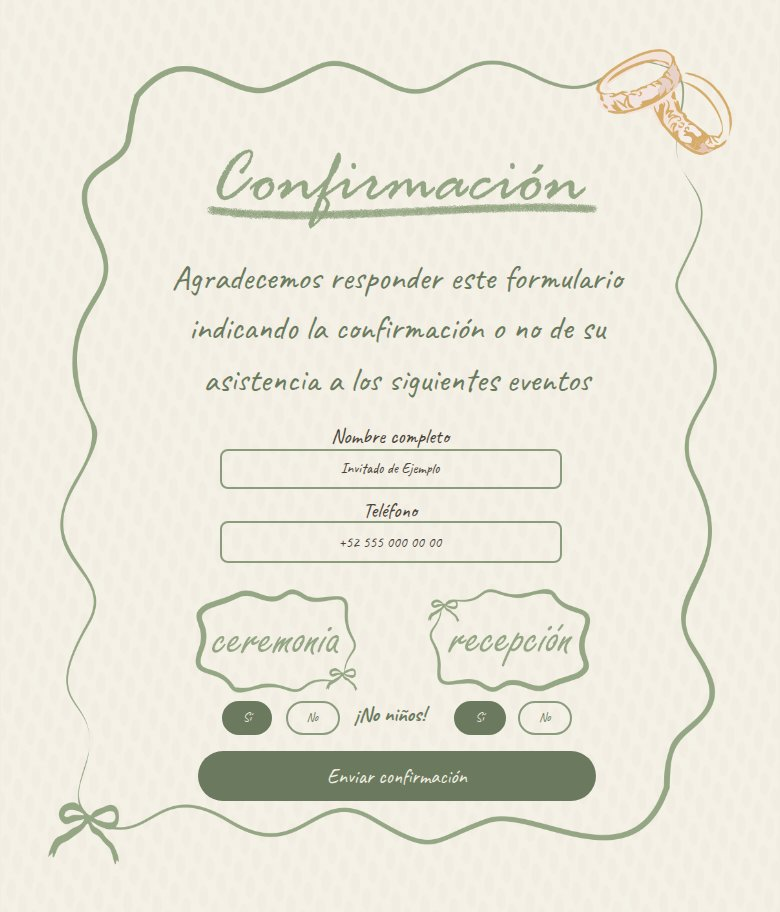
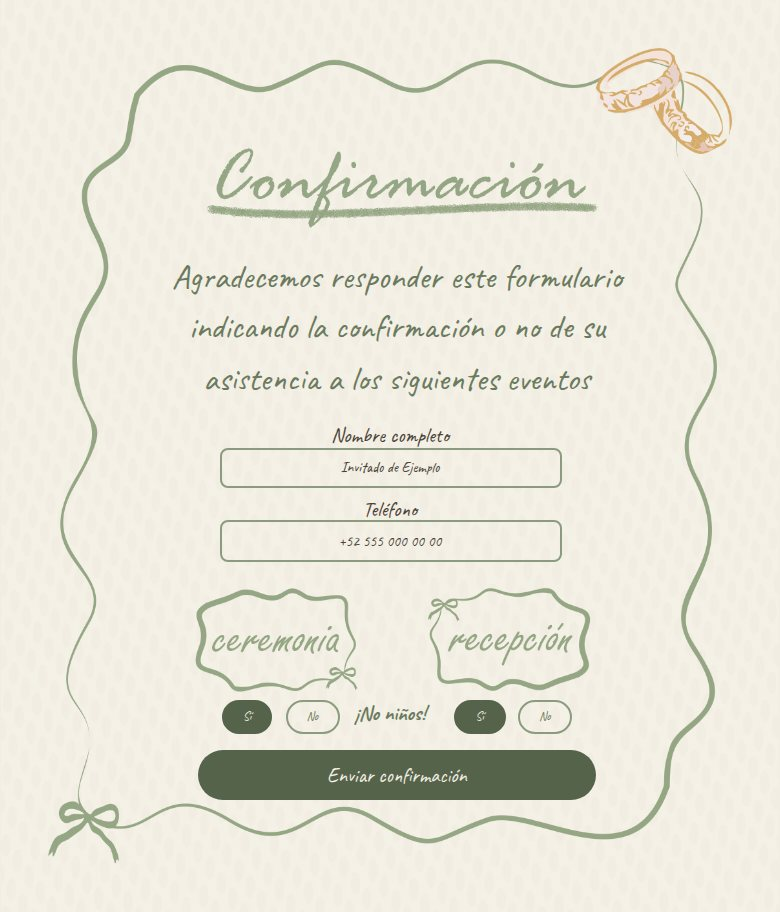
[IMP] Document the envelope, music and personalized links
- README: features, the music settings, Envelope and Music sections
  (restyling, ?para= links, going without either), npm test, project
  structure, and credits for the demo song, which is MIT like the code
- Music: what iPhones allow (the volume is ignored, and the song plays
  in silent mode, like a video) and how to loop a song without a click
- docs/screenshots: the envelope closed and opening; the RSVP capture
  retaken with the new button color

diff --git a/README.md b/README.md
@@ -2,7 +2,7 @@
 
 [![CI](https://github.com/lfrocharod/wedding-invitation-template/actions/workflows/ci.yml/badge.svg)](https://github.com/lfrocharod/wedding-invitation-template/actions/workflows/ci.yml)
 
-A mobile-first wedding invitation website with scroll animations, a live countdown, an RSVP form and link-preview metadata. All of the content (names, date, venues, dress code, gifts, RSVP texts) lives in one config file and is baked into static HTML at build time.
+A mobile-first wedding invitation website that opens from an envelope, with background music, scroll animations, a live countdown, an RSVP form and link-preview metadata. All of the content (names, date, venues, dress code, gifts, RSVP texts, the song) lives in one config file and is baked into static HTML at build time.
 
 The site copy is in Spanish; the code and documentation are in English.
 
@@ -12,21 +12,28 @@ The site copy is in Spanish; the code and documentation are in English.
 
 Phone viewport (390px wide) with the placeholder content.
 
+|                                                                            The envelope, with the guest's name from the link                                                                             |                                                                          Opening it                                                                           |
+| :------------------------------------------------------------------------------------------------------------------------------------------------------------------------------------------------------: | :-----------------------------------------------------------------------------------------------------------------------------------------------------------: |
+| <img src="docs/screenshots/envelope.jpg" width="260" alt="Envelope sealed with a sage wax seal showing the initials V and D, addressed to Familia Pérez, under the names Valeria & Daniel and the date"> | <img src="docs/screenshots/envelope-opening.jpg" width="260" alt="The opened envelope with its patterned liner and a card reading ¡Nos casamos! sliding out"> |
+
 |                                                                    Hero and ceremony                                                                     |                                                             Dress code, gifts and countdown                                                             |                                                          RSVP                                                           |
 | :------------------------------------------------------------------------------------------------------------------------------------------------------: | :-----------------------------------------------------------------------------------------------------------------------------------------------------: | :---------------------------------------------------------------------------------------------------------------------: |
 | <img src="docs/screenshots/hero-and-ceremony.jpg" width="260" alt="Header with the couple's names and the date, the welcome text and the ceremony card"> | <img src="docs/screenshots/dress-code-gifts-countdown.jpg" width="260" alt="Dress code panel, gift table with example bank details, and the countdown"> | <img src="docs/screenshots/rsvp.jpg" width="260" alt="RSVP form with name, phone and the Sí/No toggles for each event"> |
 
 ## Features
 
+- **Envelope intro:** the invitation starts inside an envelope sealed with the couple's initials. A tap breaks the seal, opens the flap and slides out the letter, then the invitation animates in. It's drawn with CSS and SVG, so there's no artwork to make, and recolored with a few custom properties. It works with the keyboard and isn't shown at all without JavaScript, since nothing could open it.
+- **Personalized envelopes:** a link ending in `?para=Familia%20Pérez` writes the guest's name on the envelope, so each guest can get their own link.
+- **Background music without a visible player:** the song starts with the tap that opens the envelope (browsers block sound before one), fades in, and pauses while the tab is in the background. A pause button appears only on keyboard focus, so keyboard and screen reader users can still stop it.
 - **Mobile-first illustrated layout:** a single column (480px max) where text sits on top of the illustrations, positioned with percentages and sized with container query units (`cqw`), so it scales with the artwork on any screen.
-- **Scroll-reveal animations** with `IntersectionObserver`. They are opt-in: sections only start hidden when the visitor allows motion (`prefers-reduced-motion: no-preference`) and JavaScript is running, so the content is never stuck invisible.
-- **Live countdown** to the ceremony, read from the config.
-- **RSVP form** with Sí/No toggles per event, phone formatting (`+52 555 000 00 00`), validation, a honeypot field against bots and two backends: a network-free **demo** mode and a **Google Apps Script** mode that writes each answer to a Google Sheet.
+- **Scroll-reveal animations** with `IntersectionObserver`, starting once the envelope is open. Blocks that come into view together appear one after another. They are opt-in: content only starts hidden when the visitor allows motion (`prefers-reduced-motion: no-preference`) and JavaScript is running, so it's never stuck invisible. With reduced motion, the envelope simply fades away.
+- **Live countdown** to the ceremony, read from the config, replaced by "¡Llegó el gran día!" once the day comes.
+- **RSVP form** with Sí/No toggles per event, phone formatting (`+52 555 000 00 00`), validation messages in the form itself rather than pop-up alerts, a honeypot field against bots and two backends: a network-free **demo** mode and a **Google Apps Script** mode that writes each answer to a Google Sheet.
 - **Link previews that work on WhatsApp:** the page title and Open Graph tags are in the static HTML, generated from the config by a small Vite plugin. Link-preview crawlers don't run JavaScript.
 - **One config file:** `src/invitation.config.js`. A placeholder without a matching value fails the build instead of shipping `{{ … }}` to guests.
-- **Accessible:** a real `<h1>` and section headings for screen readers (the visible titles are drawn into the artwork), labelled form controls and toggle groups, focus moved to the confirmation message, and `autocomplete` hints.
-- **Lightweight:** no framework, about 5 KB of JavaScript, and illustrations compressed to 256-color lossless WebP (the image folder went from 3.4 MB to about 0.8 MB).
-- **Tooling:** ESLint, Stylelint, Prettier, a Husky + lint-staged pre-commit hook and GitHub Actions CI that deploys `main` to GitHub Pages.
+- **Accessible:** a real `<h1>` and section headings for screen readers (the visible titles are drawn into the artwork), labelled form controls and toggle groups, the invitation kept out of reach (`inert`) behind the closed envelope, focus moved to the invitation once it opens and to the confirmation message after sending, and `autocomplete` hints.
+- **Lightweight:** no framework, about 7 KB of JavaScript (3 KB gzipped), illustrations compressed to 256-color lossless WebP (the image folder went from 3.4 MB to about 0.8 MB) and a 0.8 MB demo song.
+- **Tooling:** ESLint, Stylelint, Prettier, unit tests for the build plugin on Node's built-in test runner, a Husky + lint-staged pre-commit hook and GitHub Actions CI that deploys `main` to GitHub Pages.
 
 ## Quick start
 
@@ -54,6 +61,7 @@ npm run dev # then open the URL Vite prints (it includes the base path from site
 | `dressCode`                                           | Dress code (read by screen readers), the note, and the inspiration links behind the "Mujer" / "Hombre" buttons.                                                                                                         |
 | `gifts`                                               | Message and bank or gift-registry details, one line each.                                                                                                                                                               |
 | `rsvp`                                                | Intro text, note (e.g. "¡No niños!") and confirmation message.                                                                                                                                                          |
+| `music.src`, `music.volume`                           | The background song (an MP3 in `public/`) and its volume, from 0 to 1. Add `#t=<seconds>` to `src` to skip a long intro. See [Music](#5-music).                                                                         |
 
 In text values, `\n` is a line break; arrays render one item per line.
 
@@ -66,6 +74,36 @@ The section titles and labels ("Templo", "Mujer", "ceremonia", …) are drawn in
 ### 3. Link preview
 
 Replace `og-image.jpg` (1200×630; keep it small, as WhatsApp may skip images over roughly 300 KB), set `site.url`, deploy, and check the result with a link-preview debugger such as Facebook's Sharing Debugger. WhatsApp caches previews, so when testing changes share the URL with a query string like `?v=2`.
+
+### 4. Envelope
+
+The envelope on the first screen shows the couple's names, the date and a wax seal with their initials, all taken from the config. Its other two texts, "¡Nos casamos!" on the letter and the "Toca para abrir" hint, are in `index.html`.
+
+It's drawn with CSS and the SVG shapes in `index.html`. To restyle it, change the `--envelope-*` custom properties at the top of `src/styles/_envelope.scss` (paper, lines, liner and seal colors). To use your designer's artwork instead, keep the class names, which the script and the animations rely on, and swap the SVG shapes for images. Opening it runs two steps of CSS animations (`is-opening`, then `is-leaving`) and the script waits for each one to end, so the timing lives only in that file.
+
+**Personalized links:** add `?para=` and the guest's name to the link you send, and the envelope reads "Para Familia Pérez":
+
+```text
+https://lfrocharod.github.io/wedding-invitation-template/?para=Familia%20Pérez
+```
+
+Spaces can be written as `%20` or `+`; send yourself the link first to check how your messaging app handles it. Names are cut at 60 characters and long ones get a smaller font, so they fit. The name is inserted as plain text, so a link can't inject HTML. Without `?para=` the envelope just shows the seal.
+
+To go without the envelope, delete its `<section class="envelope">` from `index.html` and the invitation shows right away. The music starts from the tap on the envelope, so remove the music as well.
+
+### 5. Music
+
+Replace `public/assets/audio/song.mp3` with the couple's song (or point `music.src` at another file) and set `music.volume`. Use an MP3, the one format every browser plays (Ogg doesn't play on iPhones), and keep it light: around 128 kbps is plenty for background music, which keeps a 4-minute song under 4 MB. It downloads while the guest is looking at the envelope.
+
+Browsers only let a page play sound after the visitor interacts with it, and Safari only from inside that interaction, so the song starts from the tap that opens the envelope, not when its animation ends. It loops, fades in over a couple of seconds and pauses while the tab is in the background (for example when a "ubicación" link opens Google Maps), picking up again on return.
+
+There's no visible player. A "Pausar música" button sits at the top of the invitation, invisible until it receives keyboard focus, so keyboard and screen reader users can still stop a song that would otherwise talk over their screen reader. To show it to everyone, delete the `&:not(:focus)` block of `.music-toggle` in `src/styles/main.scss`.
+
+On iPhones a page can't set the volume, so `music.volume` is ignored there and the song plays at the device's media volume. Like a video, it also plays with the silent switch on: that switch silences ringtones and alerts, not media. The pause button and the tab's own mute are the ways out.
+
+The song loops, and every loop restarts with a short gap: MP3 files begin with a few milliseconds of silence (encoder delay), and browsers take a moment to jump back to the start. A song that ends and begins cleanly, as most do, hides it. One cut in the middle of a phrase to loop seamlessly clicks at that point, so let its last notes fade out. The demo song ends that way, letting its last chord ring out before the tune starts again.
+
+To go without music, delete the `<audio>` element and the `music-toggle` button from `index.html`, and the `music` block from the config.
 
 ## RSVP setup
 
@@ -111,13 +149,14 @@ The form has a hidden `website` field. People never see it, but bots that fill i
 | `npm run dev`          | Start the Vite dev server                    |
 | `npm run build`        | Build the static site into `dist/`           |
 | `npm run preview`      | Serve the production build locally           |
+| `npm test`             | Run the unit tests                           |
 | `npm run lint`         | Run ESLint, Stylelint and the Prettier check |
 | `npm run lint:js`      | Run ESLint only                              |
 | `npm run lint:css`     | Run Stylelint only                           |
 | `npm run format`       | Format all files with Prettier               |
 | `npm run format:check` | Check formatting without writing             |
 
-A pre-commit hook (Husky + lint-staged) lints and formats the staged files. GitHub Actions runs ESLint, Stylelint, the Prettier check and the production build on every push and pull request, and deploys `main` to GitHub Pages once they pass.
+A pre-commit hook (Husky + lint-staged) lints and formats the staged files. GitHub Actions runs ESLint, Stylelint, the Prettier check, the tests and the production build on every push and pull request, and deploys `main` to GitHub Pages once they pass.
 
 ## Tech stack
 
@@ -126,6 +165,7 @@ A pre-commit hook (Husky + lint-staged) lints and formats the staged files. GitH
 - SCSS (Dart Sass) with BEM naming and container query units
 - Google Apps Script and Google Sheets for RSVPs
 - ESLint, Stylelint (`stylelint-config-standard-scss`) and Prettier
+- Node's built-in test runner (`node --test`)
 - Husky + lint-staged, GitHub Actions
 
 ## Project structure
@@ -136,12 +176,13 @@ A pre-commit hook (Husky + lint-staged) lints and formats the staged files. GitH
 │   └── Code.gs                     # RSVP backend (Google Apps Script web app)
 ├── docs/screenshots/               # README screenshots
 ├── plugins/
-│   └── vite-plugin-invitation.js   # Injects the config into index.html at build time
-├── public/                         # Copied as-is: favicon and images
+│   ├── vite-plugin-invitation.js   # Injects the config into index.html at build time
+│   └── vite-plugin-invitation.test.js
+├── public/                         # Copied as-is: favicon, images and the song
 ├── src/
 │   ├── invitation.config.js        # All of the invitation content
-│   ├── scripts/                    # main.js (entry), reveal.js, countdown.js, rsvp.js
-│   └── styles/main.scss
+│   ├── scripts/                    # main.js (entry), envelope.js, music.js, reveal.js, countdown.js, rsvp.js
+│   └── styles/                     # main.scss, and _envelope.scss for the envelope
 ├── .env.example                    # RSVP mode and endpoint
 ├── index.html                      # Page template with {{ placeholders }}
 └── vite.config.js                  # Registers the plugin, sets the base path, checks the RSVP variables
@@ -149,7 +190,7 @@ A pre-commit hook (Husky + lint-staged) lints and formats the staged files. GitH
 
 ## How the config gets into the HTML
 
-`index.html` contains placeholders such as `{{ couple.names }}` and `{{ ceremony.venue }}`. The plugin in `plugins/vite-plugin-invitation.js` hooks into Vite's `transformIndexHtml` before Vite resolves asset URLs and replaces each placeholder with the matching value from `src/invitation.config.js`. Values are HTML-escaped, and line breaks are handled differently in text and in attributes. The plugin also derives a few values, such as the couple's display name and the Spanish date parts used in the title and preview.
+`index.html` contains placeholders such as `{{ couple.names }}` and `{{ ceremony.venue }}`. The plugin in `plugins/vite-plugin-invitation.js` hooks into Vite's `transformIndexHtml` before Vite resolves asset URLs and replaces each placeholder with the matching value from `src/invitation.config.js`. Values are HTML-escaped, and line breaks are handled differently in text and in attributes. The plugin also derives a few values, such as the couple's display name, their initials for the envelope's seal and the Spanish date parts used in the title and preview.
 
 Doing this at build time rather than in the browser means the page title, the Open Graph tags and every visible text are in the static HTML that WhatsApp's crawler fetches, and the content doesn't depend on JavaScript to appear.
 
@@ -167,6 +208,8 @@ The CI workflow deploys `main` to **GitHub Pages** after the checks pass. To do 
 
 Illustrations © Pao Lepe, used with permission. Not covered by this repo's license and not for reuse.
 
+The demo song (`public/assets/audio/song.mp3`) is a music-box arrangement of Pachelbel's Canon in D, a public-domain composition, synthesized for this template.
+
 ## License
 
-The code is released under the [MIT License](LICENSE). The illustrations in `public/assets/images/`, and the images made from them (the link-preview image and the screenshots in `docs/screenshots/`), are excluded (see [Credits](#credits)).
+The code, and the demo song made for it, are released under the [MIT License](LICENSE). The illustrations in `public/assets/images/`, and the images made from them (the link-preview image and the screenshots in `docs/screenshots/`), are excluded (see [Credits](#credits)).
